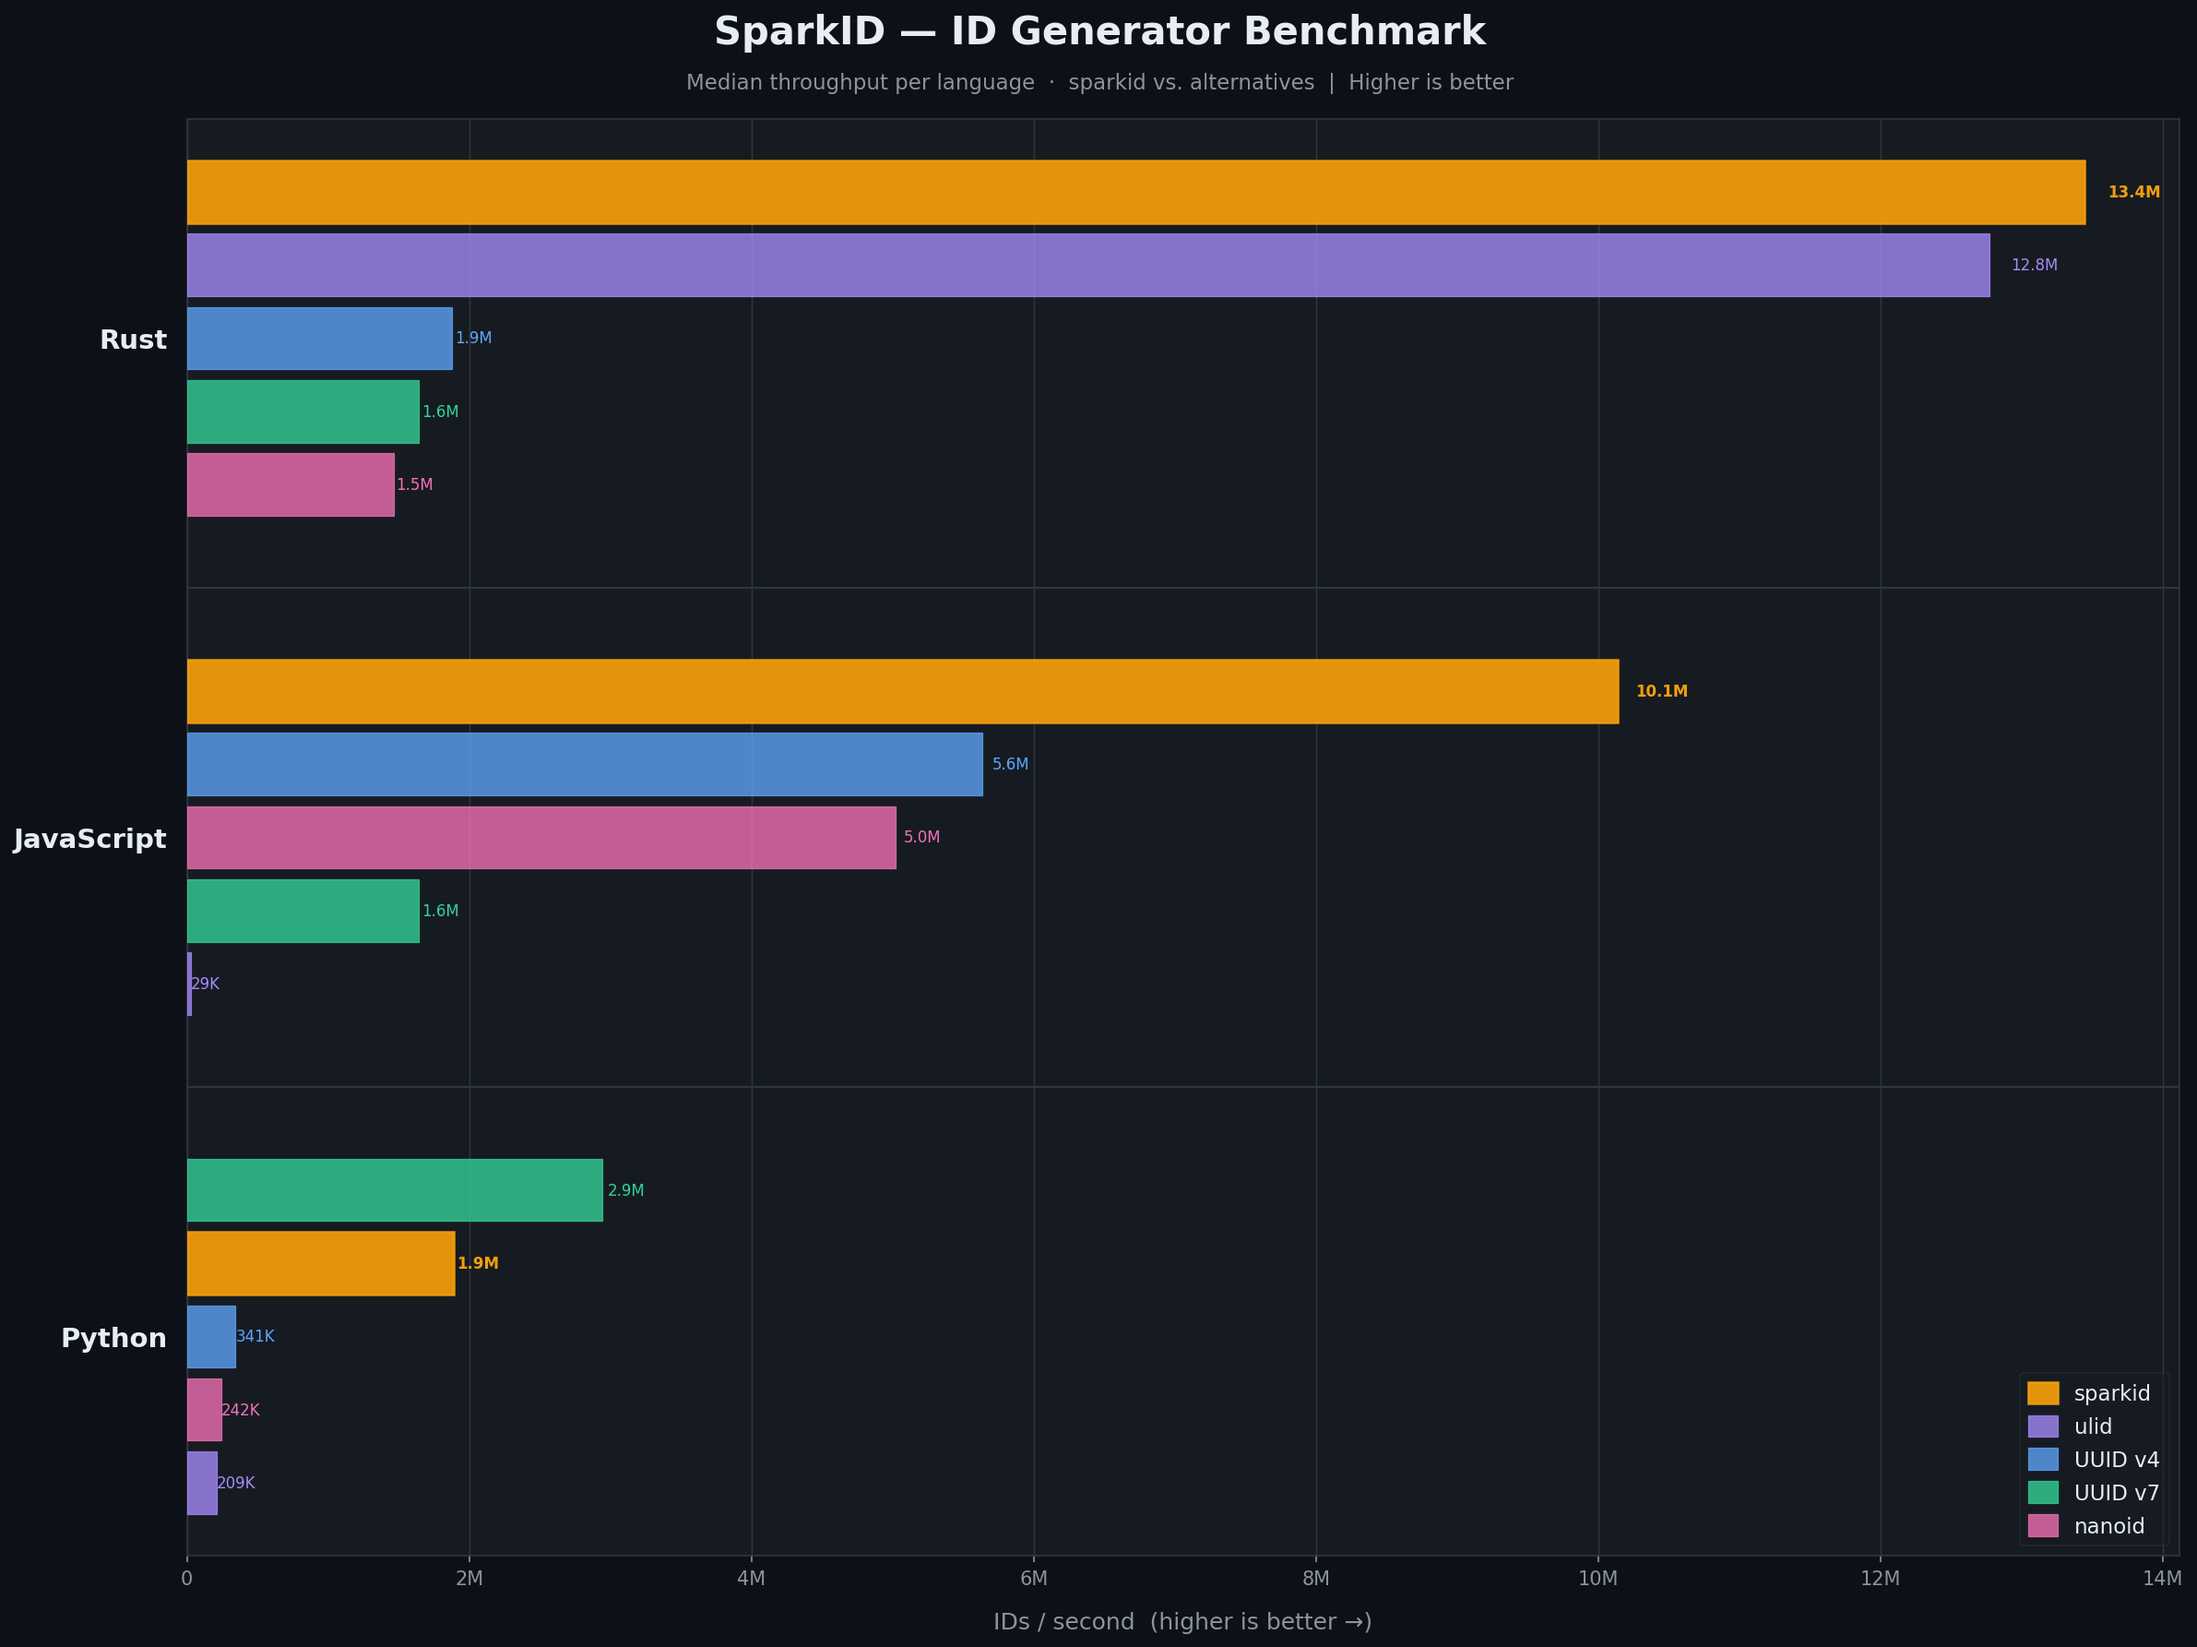
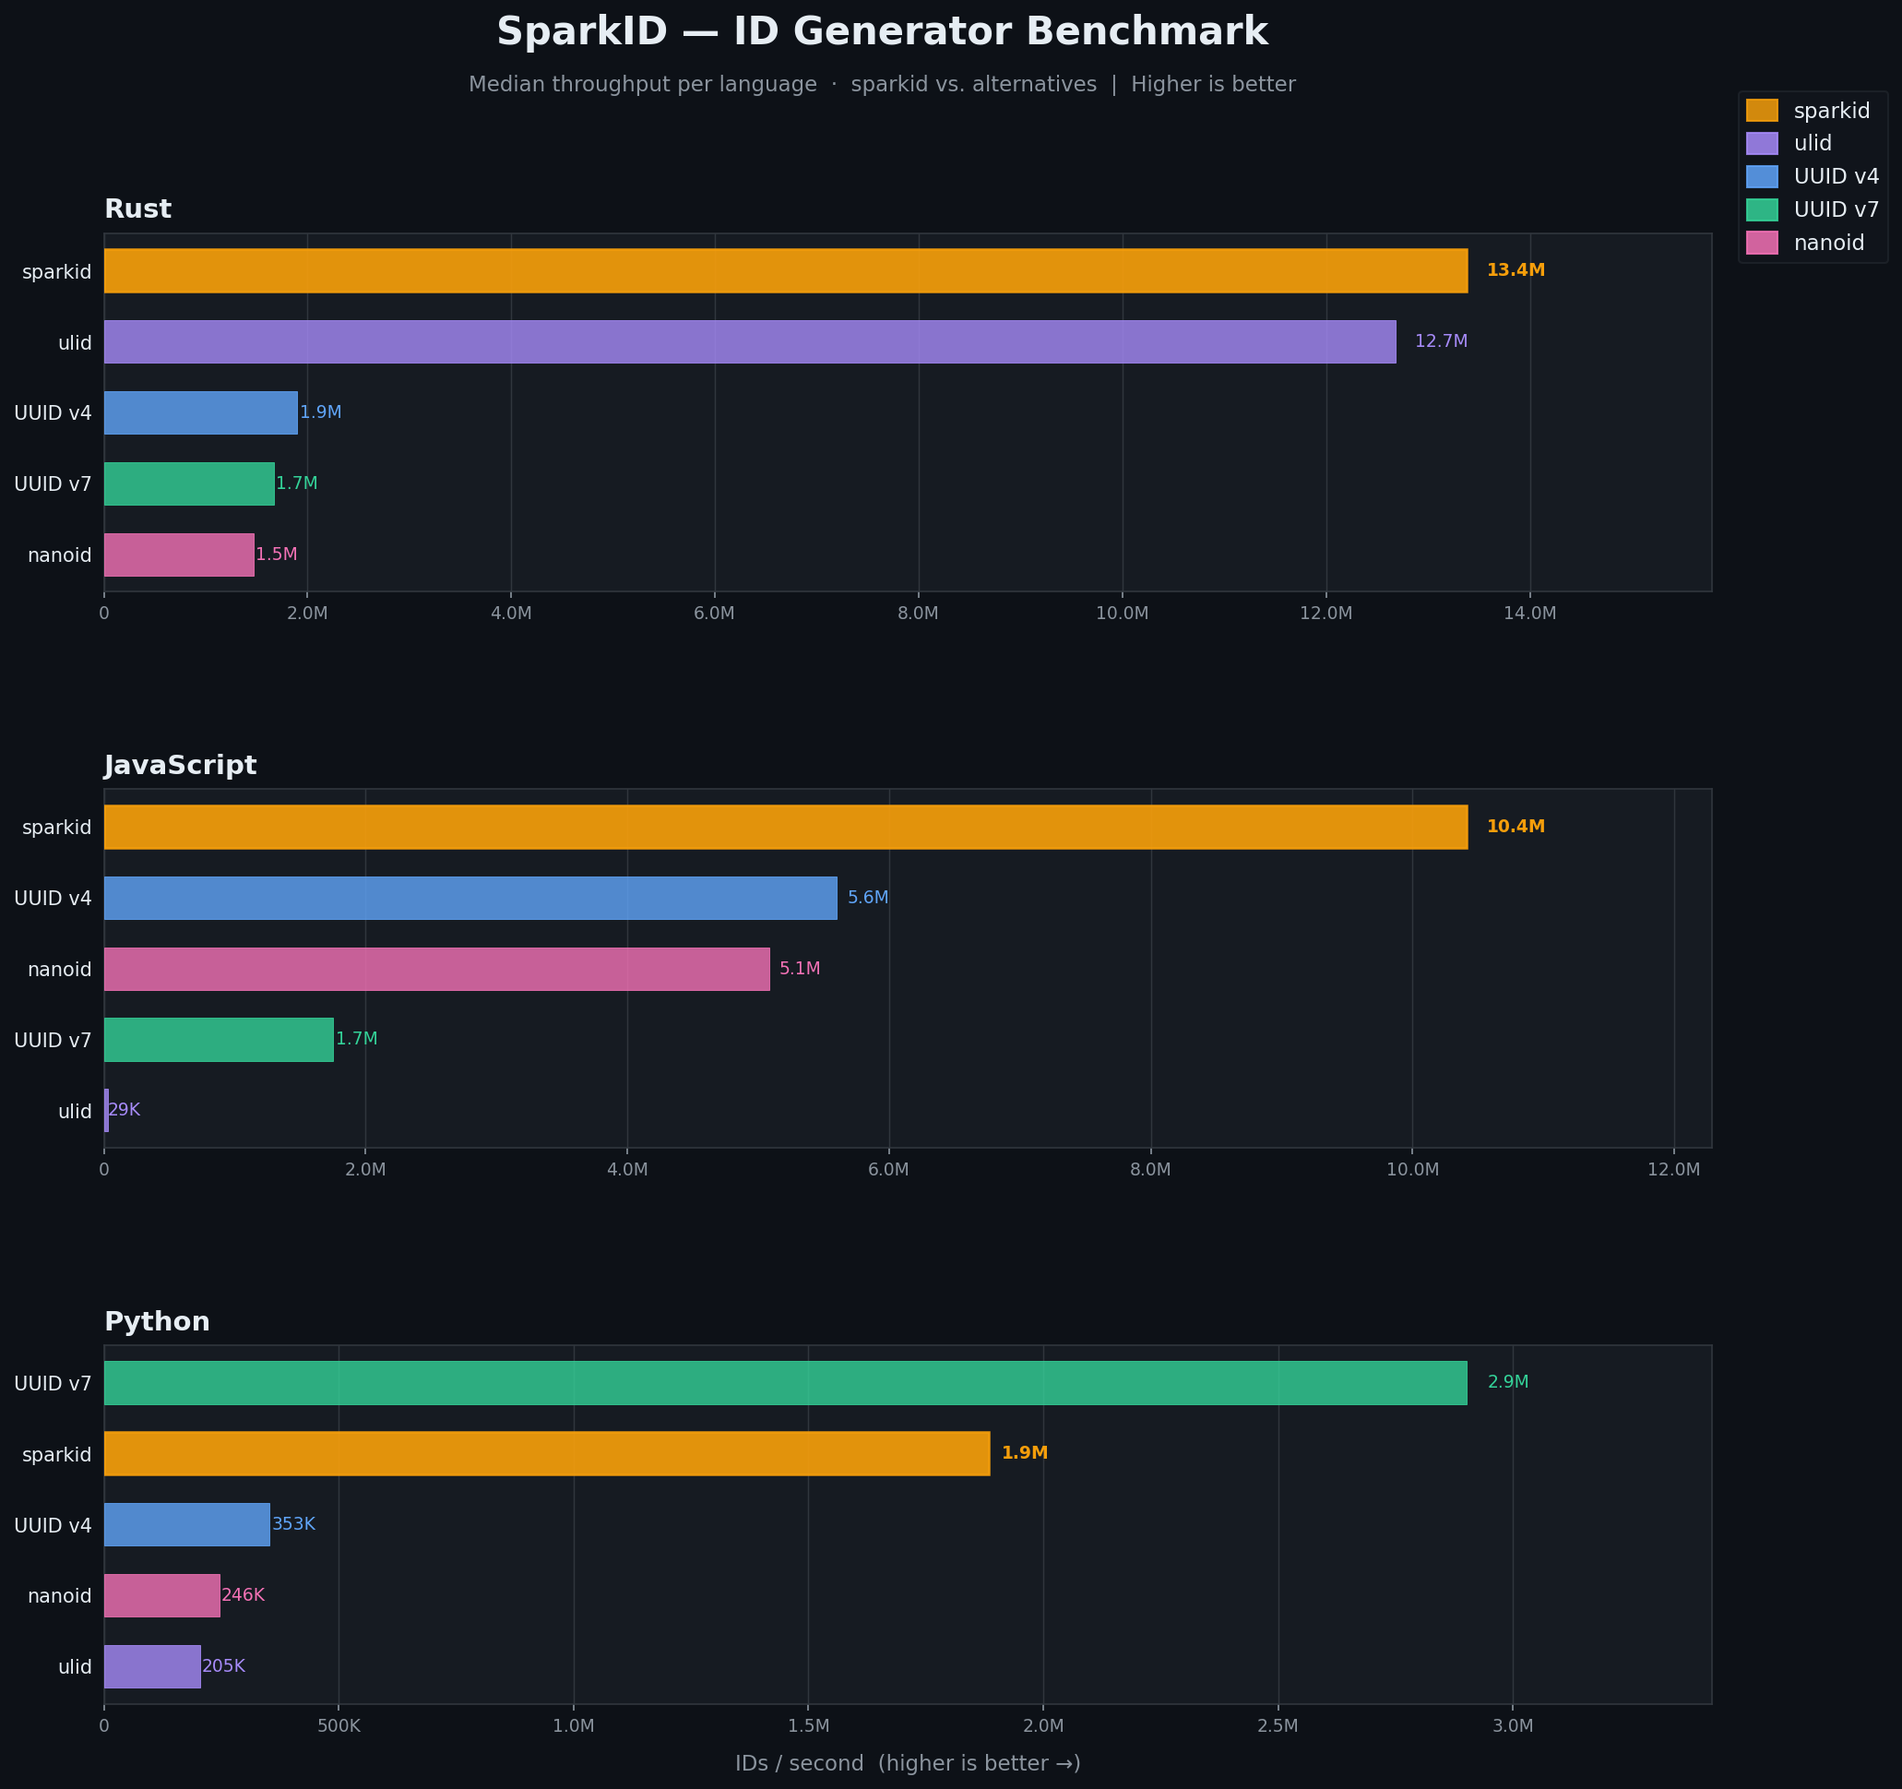
refactor: split into 3 subplots, each with its own independent X-axis scale
Agent-Logs-Url: https://github.com/youssefm/sparkid/sessions/ff594614-58ba-4848-9303-3cf6b5730cc8

diff --git a/bench_compare.py b/bench_compare.py
@@ -234,6 +234,16 @@ def _order_names(all_names: set[str]) -> list[str]:
     return seen
 
 
+def _fmt_ids(v: float, _: object = None) -> str:
+    if v >= 1e9:
+        return f"{v / 1e9:.0f}B"
+    if v >= 1e6:
+        return f"{v / 1e6:.1f}M"
+    if v >= 1e3:
+        return f"{v / 1e3:.0f}K"
+    return str(int(v))
+
+
 def make_chart(
     js: dict[str, float],
     py: dict[str, float],
@@ -245,19 +255,17 @@ def make_chart(
         matplotlib.use("Agg")
         import matplotlib.pyplot as plt
         import matplotlib.ticker as mticker
-        import numpy as np
     except ImportError as exc:  # pragma: no cover
-        sys.exit(f"Missing dependency: {exc}. Run: pip install matplotlib numpy")
+        sys.exit(f"Missing dependency: {exc}. Run: pip install matplotlib")
 
     all_names = set(js) | set(py) | set(rust)
-    names = _order_names(all_names)  # used only to assign stable colours
+    names = _order_names(all_names)  # stable ordering → stable colours
 
-    # Languages sorted fastest → slowest (determines group order top → bottom)
+    # Languages sorted fastest → slowest (Rust, JS, Python)
     langs_ordered = ["Rust", "JavaScript", "Python"]
     datasets_ordered = [rust, js, py]
 
-    # For each language, sort its generators fastest → slowest so the longest
-    # bar is at the top of each sub-group.
+    # Per-language generator lists sorted fastest → slowest
     per_lang: list[list[str]] = [
         sorted(data.keys(), key=lambda n: -data.get(n, 0.0))
         for data in datasets_ordered
@@ -275,32 +283,7 @@ def make_chart(
     ]
     gen_colors = {name: GEN_PALETTE[i % len(GEN_PALETTE)] for i, name in enumerate(names)}
 
-    # ── layout: one horizontal sub-group per language ─────────────────────────
-    BAR_H = 0.55      # height of each bar
-    GROUP_GAP = 1.0   # extra vertical space between language groups
-
-    # Build Y positions from top to bottom: Rust group, then JS, then Python.
-    # Within each group, generators are ordered fastest (top) to slowest (bottom).
-    y_ticks_lang: list[float] = []   # centre Y of each language label
-    bar_data: list[tuple[float, float, str, str, str]] = []  # (y, val, gen, lang, color)
-
-    y = 0.0
-    for li, (lang, data, gen_names) in enumerate(
-        zip(langs_ordered, datasets_ordered, per_lang)
-    ):
-        group_start = y
-        for gen in gen_names:
-            val = data.get(gen, 0.0)
-            bar_data.append((y, val, gen, lang, gen_colors.get(gen, "#94A3B8")))
-            y -= BAR_H
-        group_end = y + BAR_H  # last bar's top edge
-        y_ticks_lang.append((group_start + group_end) / 2)
-        if li < len(langs_ordered) - 1:
-            y -= GROUP_GAP   # gap between groups
-
-    all_y = [d[0] for d in bar_data]
-
-    # ── figure setup ─────────────────────────────────────────────────────────
+    # ── colours ───────────────────────────────────────────────────────────────
     FIG_BG = "#0d1117"
     AX_BG = "#161b22"
     GRID_COLOR = "#30363d"
@@ -308,105 +291,107 @@ def make_chart(
     TEXT_COLOR = "#e6edf3"
     MUTED = "#8b949e"
 
-    total_bars = len(bar_data)
-    fig_h = max(9, total_bars * 0.55 + len(langs_ordered) * 0.5 + 2.5)
-    fig, ax = plt.subplots(figsize=(16, fig_h))
-    fig.patch.set_facecolor(FIG_BG)
-    ax.set_facecolor(AX_BG)
+    BAR_H = 0.6   # bar height in data units
 
-    # ── draw horizontal bars ──────────────────────────────────────────────────
-    plotted_gens: set[str] = set()
-    for y_pos, val, gen, _lang, bar_c in bar_data:
-        lw = 1.2 if gen == "sparkid" else 0.6
-        alpha = 0.92 if gen == "sparkid" else 0.78
-        bar = ax.barh(
-            y_pos,
-            val,
-            BAR_H * 0.85,
-            color=bar_c,
-            edgecolor=bar_c,
-            linewidth=lw,
-            alpha=alpha,
-            zorder=3,
-            label=gen if gen not in plotted_gens else "_nolegend_",
-        )
-        plotted_gens.add(gen)
+    # Row heights proportional to number of generators in each language
+    row_counts = [len(g) for g in per_lang]
+    total_rows = sum(row_counts)
+    fig_h = max(10, total_rows * 0.72 + 3.0)
+    height_ratios = row_counts
 
-        if val > 0:
-            if val >= 1e9:
-                label = f"{val / 1e9:.1f}B"
-            elif val >= 1e6:
-                label = f"{val / 1e6:.1f}M"
-            elif val >= 1e3:
-                label = f"{val / 1e3:.0f}K"
-            else:
-                label = str(int(val))
-            ax.text(
-                val * 1.012,
-                y_pos,
-                label,
-                ha="left",
-                va="center",
-                fontsize=8,
-                fontweight="bold" if gen == "sparkid" else "normal",
-                color=bar_c,
-                zorder=5,
-            )
-
-    # ── axes & grid ───────────────────────────────────────────────────────────
-    ax.xaxis.set_major_formatter(
-        mticker.FuncFormatter(
-            lambda v, _: (
-                f"{v / 1e9:.0f}B"
-                if v >= 1e9
-                else f"{v / 1e6:.0f}M"
-                if v >= 1e6
-                else f"{v / 1e3:.0f}K"
-                if v >= 1e3
-                else str(int(v))
-            )
-        )
+    fig, axes = plt.subplots(
+        len(langs_ordered), 1,
+        figsize=(15, fig_h),
+        gridspec_kw={"height_ratios": height_ratios, "hspace": 0.55},
     )
+    fig.patch.set_facecolor(FIG_BG)
 
-    # Y-axis: language group labels at the vertical centre of each group
-    ax.set_yticks(y_ticks_lang)
-    ax.set_yticklabels(langs_ordered, fontsize=14, fontweight="bold", color=TEXT_COLOR)
-    ax.tick_params(axis="y", length=0, pad=10)
-    ax.tick_params(axis="x", colors=MUTED, labelsize=10)
-    ax.set_xlim(left=0)
-    ax.set_ylim(min(all_y) - BAR_H, max(all_y) + BAR_H)
+    legend_handles: list = []
+    legend_labels: list[str] = []
+    seen_legend: set[str] = set()
 
-    ax.set_xlabel("IDs / second  (higher is better →)", fontsize=12, color=MUTED, labelpad=12)
+    for ax, lang, data, gen_names in zip(axes, langs_ordered, datasets_ordered, per_lang):
+        ax.set_facecolor(AX_BG)
 
-    ax.grid(axis="x", color=GRID_COLOR, linewidth=0.7, zorder=0)
-    ax.set_axisbelow(True)
+        # Y positions: 0, -1, -2, … (fastest at top)
+        y_positions = list(range(len(gen_names) - 1, -1, -1))
 
-    # Draw a subtle horizontal separator between language groups
-    for i in range(len(langs_ordered) - 1):
-        mid = (y_ticks_lang[i] + y_ticks_lang[i + 1]) / 2
-        ax.axhline(mid, color=SPINE_COLOR, linewidth=1.0, zorder=1)
+        for idx, (gen, y_pos) in enumerate(zip(gen_names, y_positions)):
+            val = data.get(gen, 0.0)
+            bar_c = gen_colors.get(gen, "#94A3B8")
+            lw = 1.2 if gen == "sparkid" else 0.5
+            alpha = 0.92 if gen == "sparkid" else 0.80
 
-    for spine in ax.spines.values():
-        spine.set_edgecolor(SPINE_COLOR)
+            ax.barh(
+                y_pos, val, BAR_H,
+                color=bar_c, edgecolor=bar_c,
+                linewidth=lw, alpha=alpha, zorder=3,
+            )
 
-    # ── title ─────────────────────────────────────────────────────────────────
+            if val > 0:
+                ax.text(
+                    val * 1.015, y_pos, _fmt_ids(val),
+                    ha="left", va="center",
+                    fontsize=9,
+                    fontweight="bold" if gen == "sparkid" else "normal",
+                    color=bar_c, zorder=5,
+                )
+
+            if gen not in seen_legend:
+                import matplotlib.patches as mpatches
+                legend_handles.append(
+                    mpatches.Patch(facecolor=bar_c, edgecolor=bar_c, alpha=0.85, label=gen)
+                )
+                legend_labels.append(gen)
+                seen_legend.add(gen)
+
+        # Y-axis: generator names
+        ax.set_yticks(y_positions)
+        ax.set_yticklabels(gen_names, fontsize=10, color=TEXT_COLOR)
+        ax.tick_params(axis="y", length=0, pad=6)
+        ax.tick_params(axis="x", colors=MUTED, labelsize=9)
+
+        # X-axis: independent scale per subplot
+        ax.set_xlim(left=0)
+        max_val = max((data.get(g, 0.0) for g in gen_names), default=1.0)
+        ax.set_xlim(0, max_val * 1.18)  # leave room for value labels
+        ax.xaxis.set_major_formatter(mticker.FuncFormatter(_fmt_ids))
+
+        ax.grid(axis="x", color=GRID_COLOR, linewidth=0.7, zorder=0)
+        ax.set_axisbelow(True)
+
+        for spine in ax.spines.values():
+            spine.set_edgecolor(SPINE_COLOR)
+
+        # Language title above each subplot
+        ax.set_title(lang, fontsize=14, fontweight="bold", color=TEXT_COLOR,
+                     loc="left", pad=8)
+
+        # X-axis label only on the bottom subplot
+        if lang == langs_ordered[-1]:
+            ax.set_xlabel("IDs / second  (higher is better →)",
+                          fontsize=11, color=MUTED, labelpad=10)
+
+    # ── figure title ──────────────────────────────────────────────────────────
     fig.text(
-        0.5, 0.98,
+        0.5, 0.995,
         "SparkID — ID Generator Benchmark",
         ha="center", va="top",
         fontsize=20, fontweight="bold", color=TEXT_COLOR,
     )
     fig.text(
-        0.5, 0.945,
+        0.5, 0.963,
         "Median throughput per language  ·  sparkid vs. alternatives  |  Higher is better",
         ha="center", va="top",
         fontsize=11, color=MUTED,
     )
 
-    # ── legend ────────────────────────────────────────────────────────────────
-    ax.legend(
+    # ── shared legend ─────────────────────────────────────────────────────────
+    fig.legend(
+        legend_handles, legend_labels,
+        loc="upper right",
+        bbox_to_anchor=(0.99, 0.96),
         fontsize=11,
-        loc="lower right",
         framealpha=0.4,
         edgecolor=SPINE_COLOR,
         facecolor=AX_BG,
@@ -416,7 +401,6 @@ def make_chart(
         ncol=1,
     )
 
-    plt.tight_layout(rect=[0, 0.01, 1, 0.93])
     plt.savefig(out, dpi=150, bbox_inches="tight", facecolor=fig.get_facecolor())
     plt.close(fig)
     print(f"\n✅  Chart saved → {out}")
